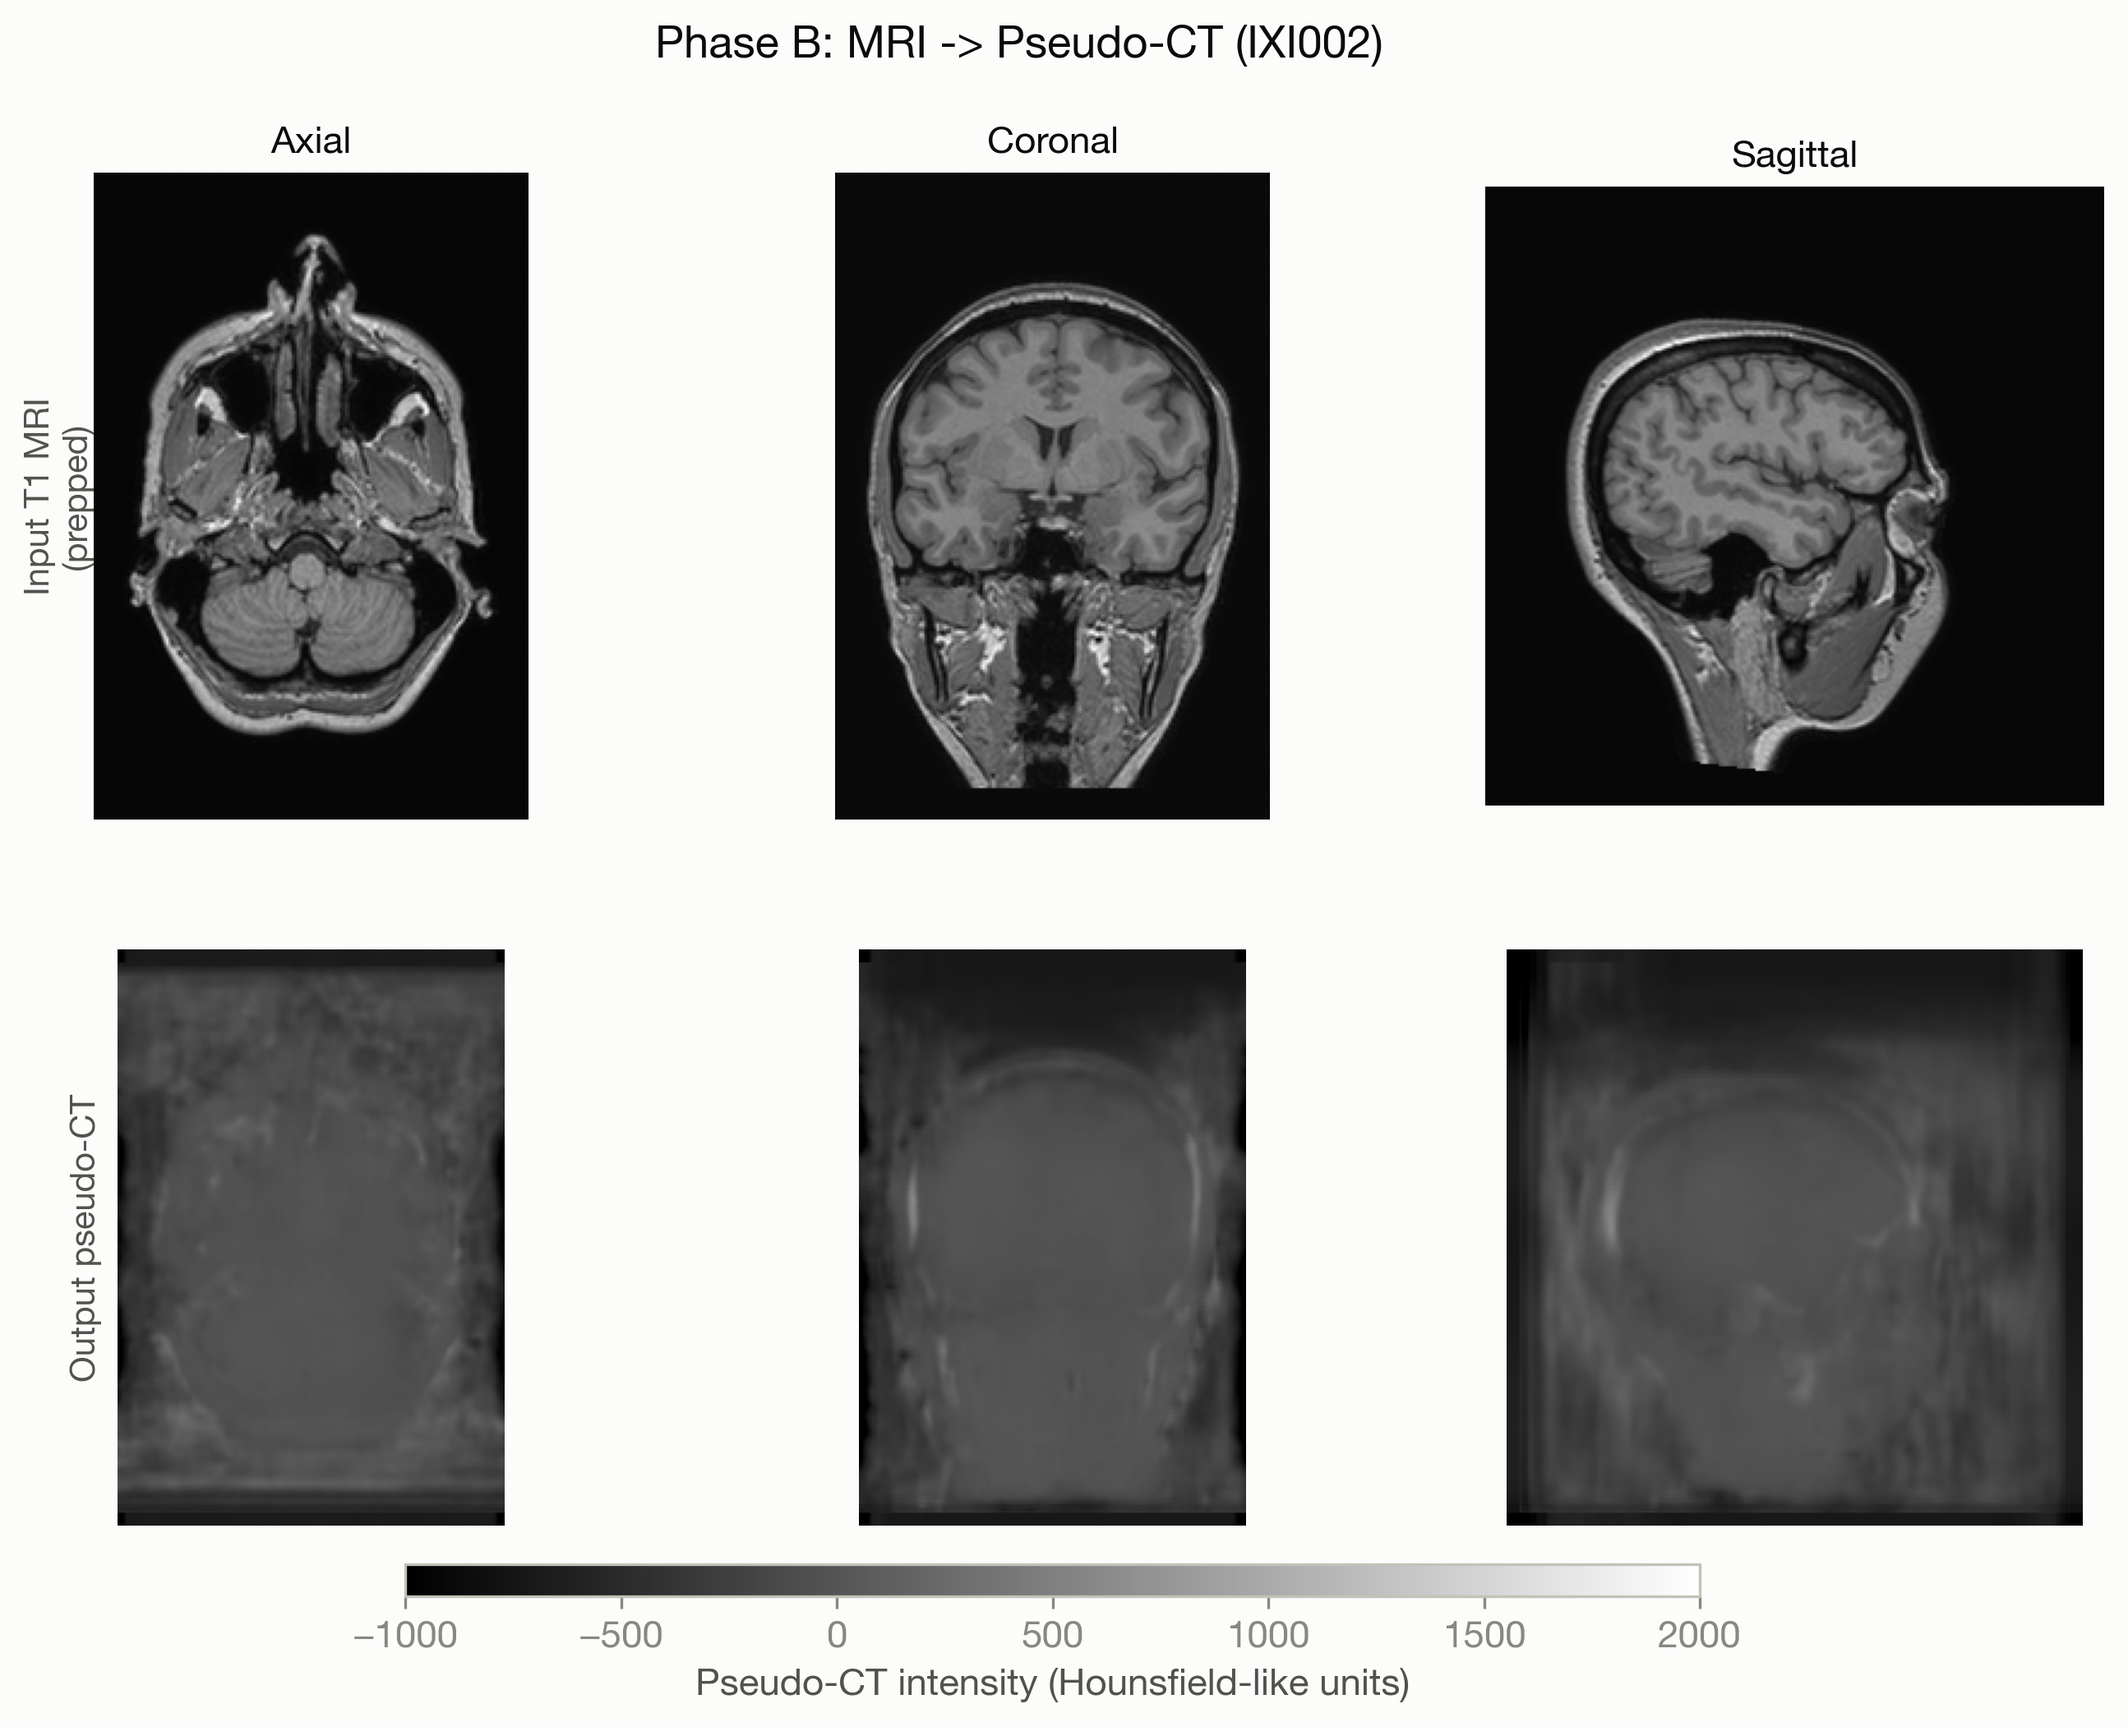
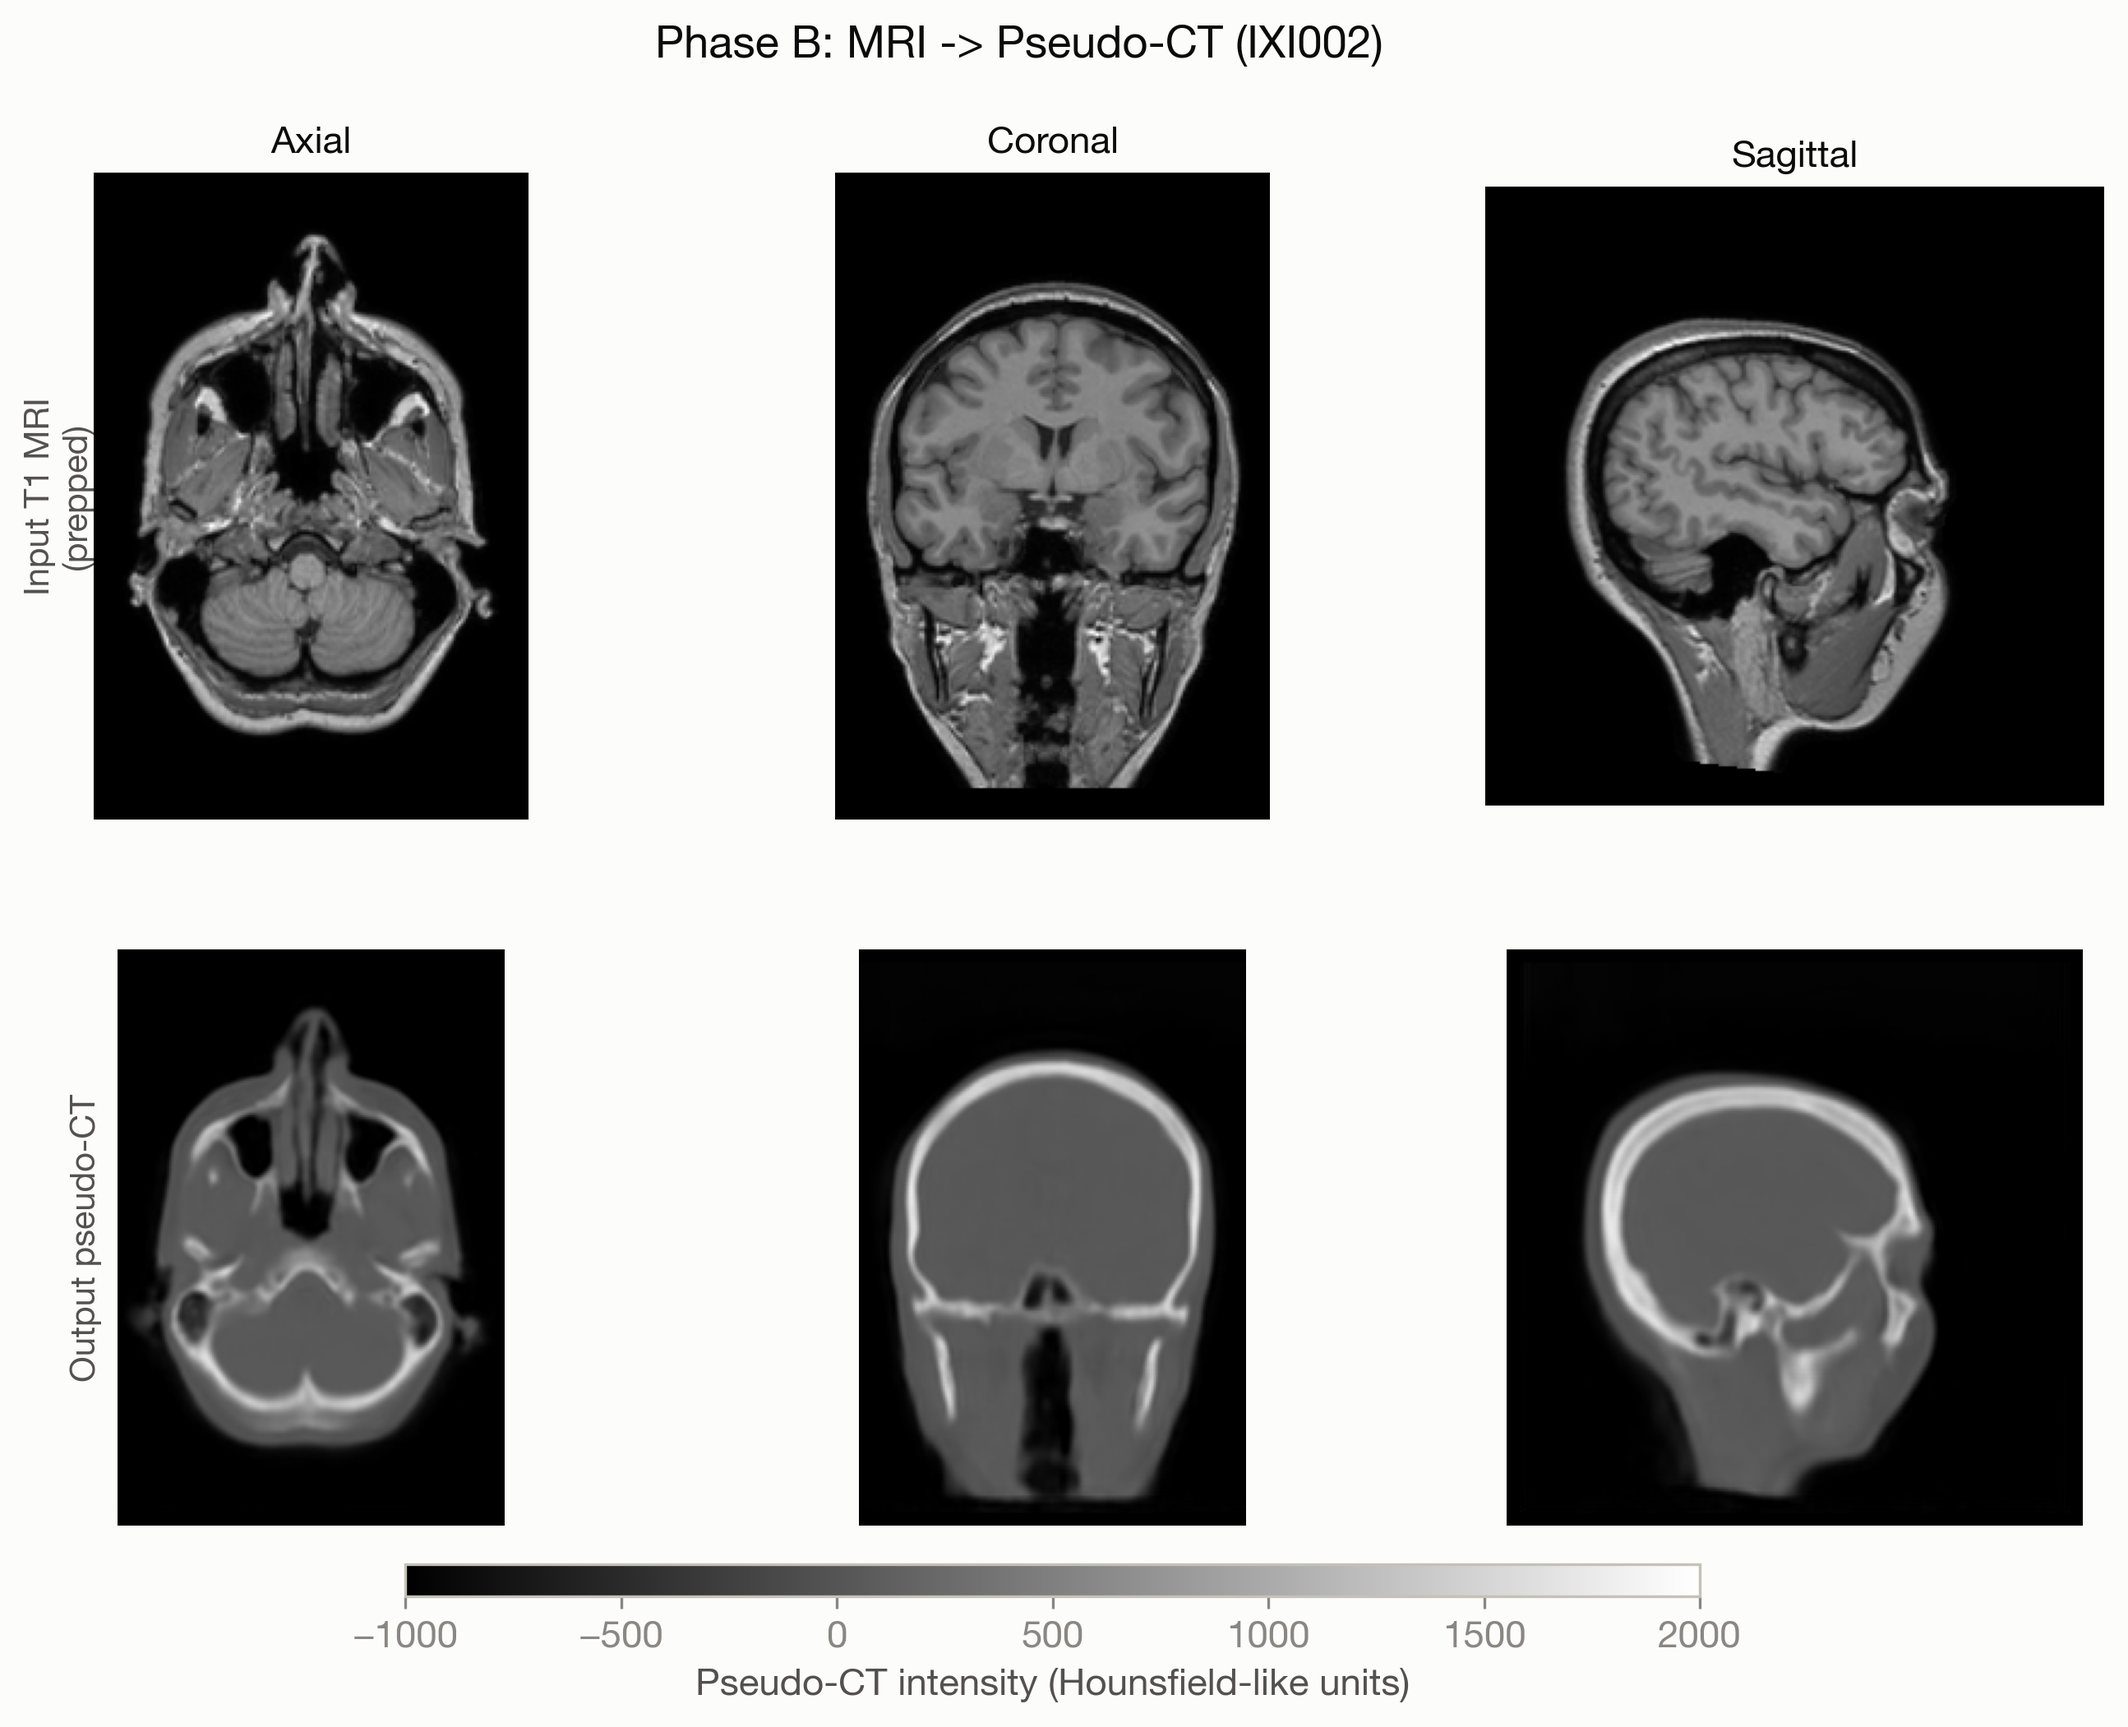
Fix cubic-spline resampling collapsing skull peak HU
Phase A used order=3 (cubic spline) resampling to 1mm isotropic.
That over-smooths the thin (~1-2mm) cortical bone rim, collapsing
subject IXI002's pseudo-CT peak from ~2500 HU down to ~795 HU --
caught by comparing against order=1 (linear), which reproduced the
expected ~2500 peak (consistent with the tool's own bundled example,
~2233). This mattered because Phase C's acoustic properties scale
directly off that peak, so the bug would have understated skull
density/sound-speed/attenuation across the whole simulation.

Switched reorient_and_resample() to order=1 and regenerated the
Phase A/B figures for IXI002 with the fix.

diff --git a/src/fus_targeting/preprocessing/reorient_resample.py b/src/fus_targeting/preprocessing/reorient_resample.py
@@ -2,6 +2,14 @@
 input specification mr-to-pct expects (third_party/mr-to-pct/README.md,
 "Input to network"). Raw IXI scans are not RAS+ or 1mm isotropic, so this
 has to happen before mr-to-pct can be run on them.
+
+Uses trilinear (order=1) resampling, not cubic spline. Cubic spline
+over-smooths the thin cortical bone rim (~1-2mm), which collapsed the
+pseudo-CT's peak Hounsfield value from ~2500 to ~800 in testing on subject
+IXI002 -- confirmed by comparing order=1 vs order=3 output through
+mr-to-pct directly. This matters because acoustic properties (Phase C) are
+scaled from that peak, so an artificially low peak would understate skull
+density/sound-speed/attenuation across the whole simulation.
 """
 
 from pathlib import Path
@@ -13,7 +21,7 @@ import nibabel.processing
 def reorient_and_resample(input_path: Path, output_path: Path, voxel_size_mm: float = 1.0) -> nib.Nifti1Image:
     img = nib.load(input_path)
     canonical = nib.as_closest_canonical(img)
-    resampled = nibabel.processing.resample_to_output(canonical, voxel_sizes=voxel_size_mm, order=3)
+    resampled = nibabel.processing.resample_to_output(canonical, voxel_sizes=voxel_size_mm, order=1)
 
     output_path.parent.mkdir(parents=True, exist_ok=True)
     nib.save(resampled, output_path)
